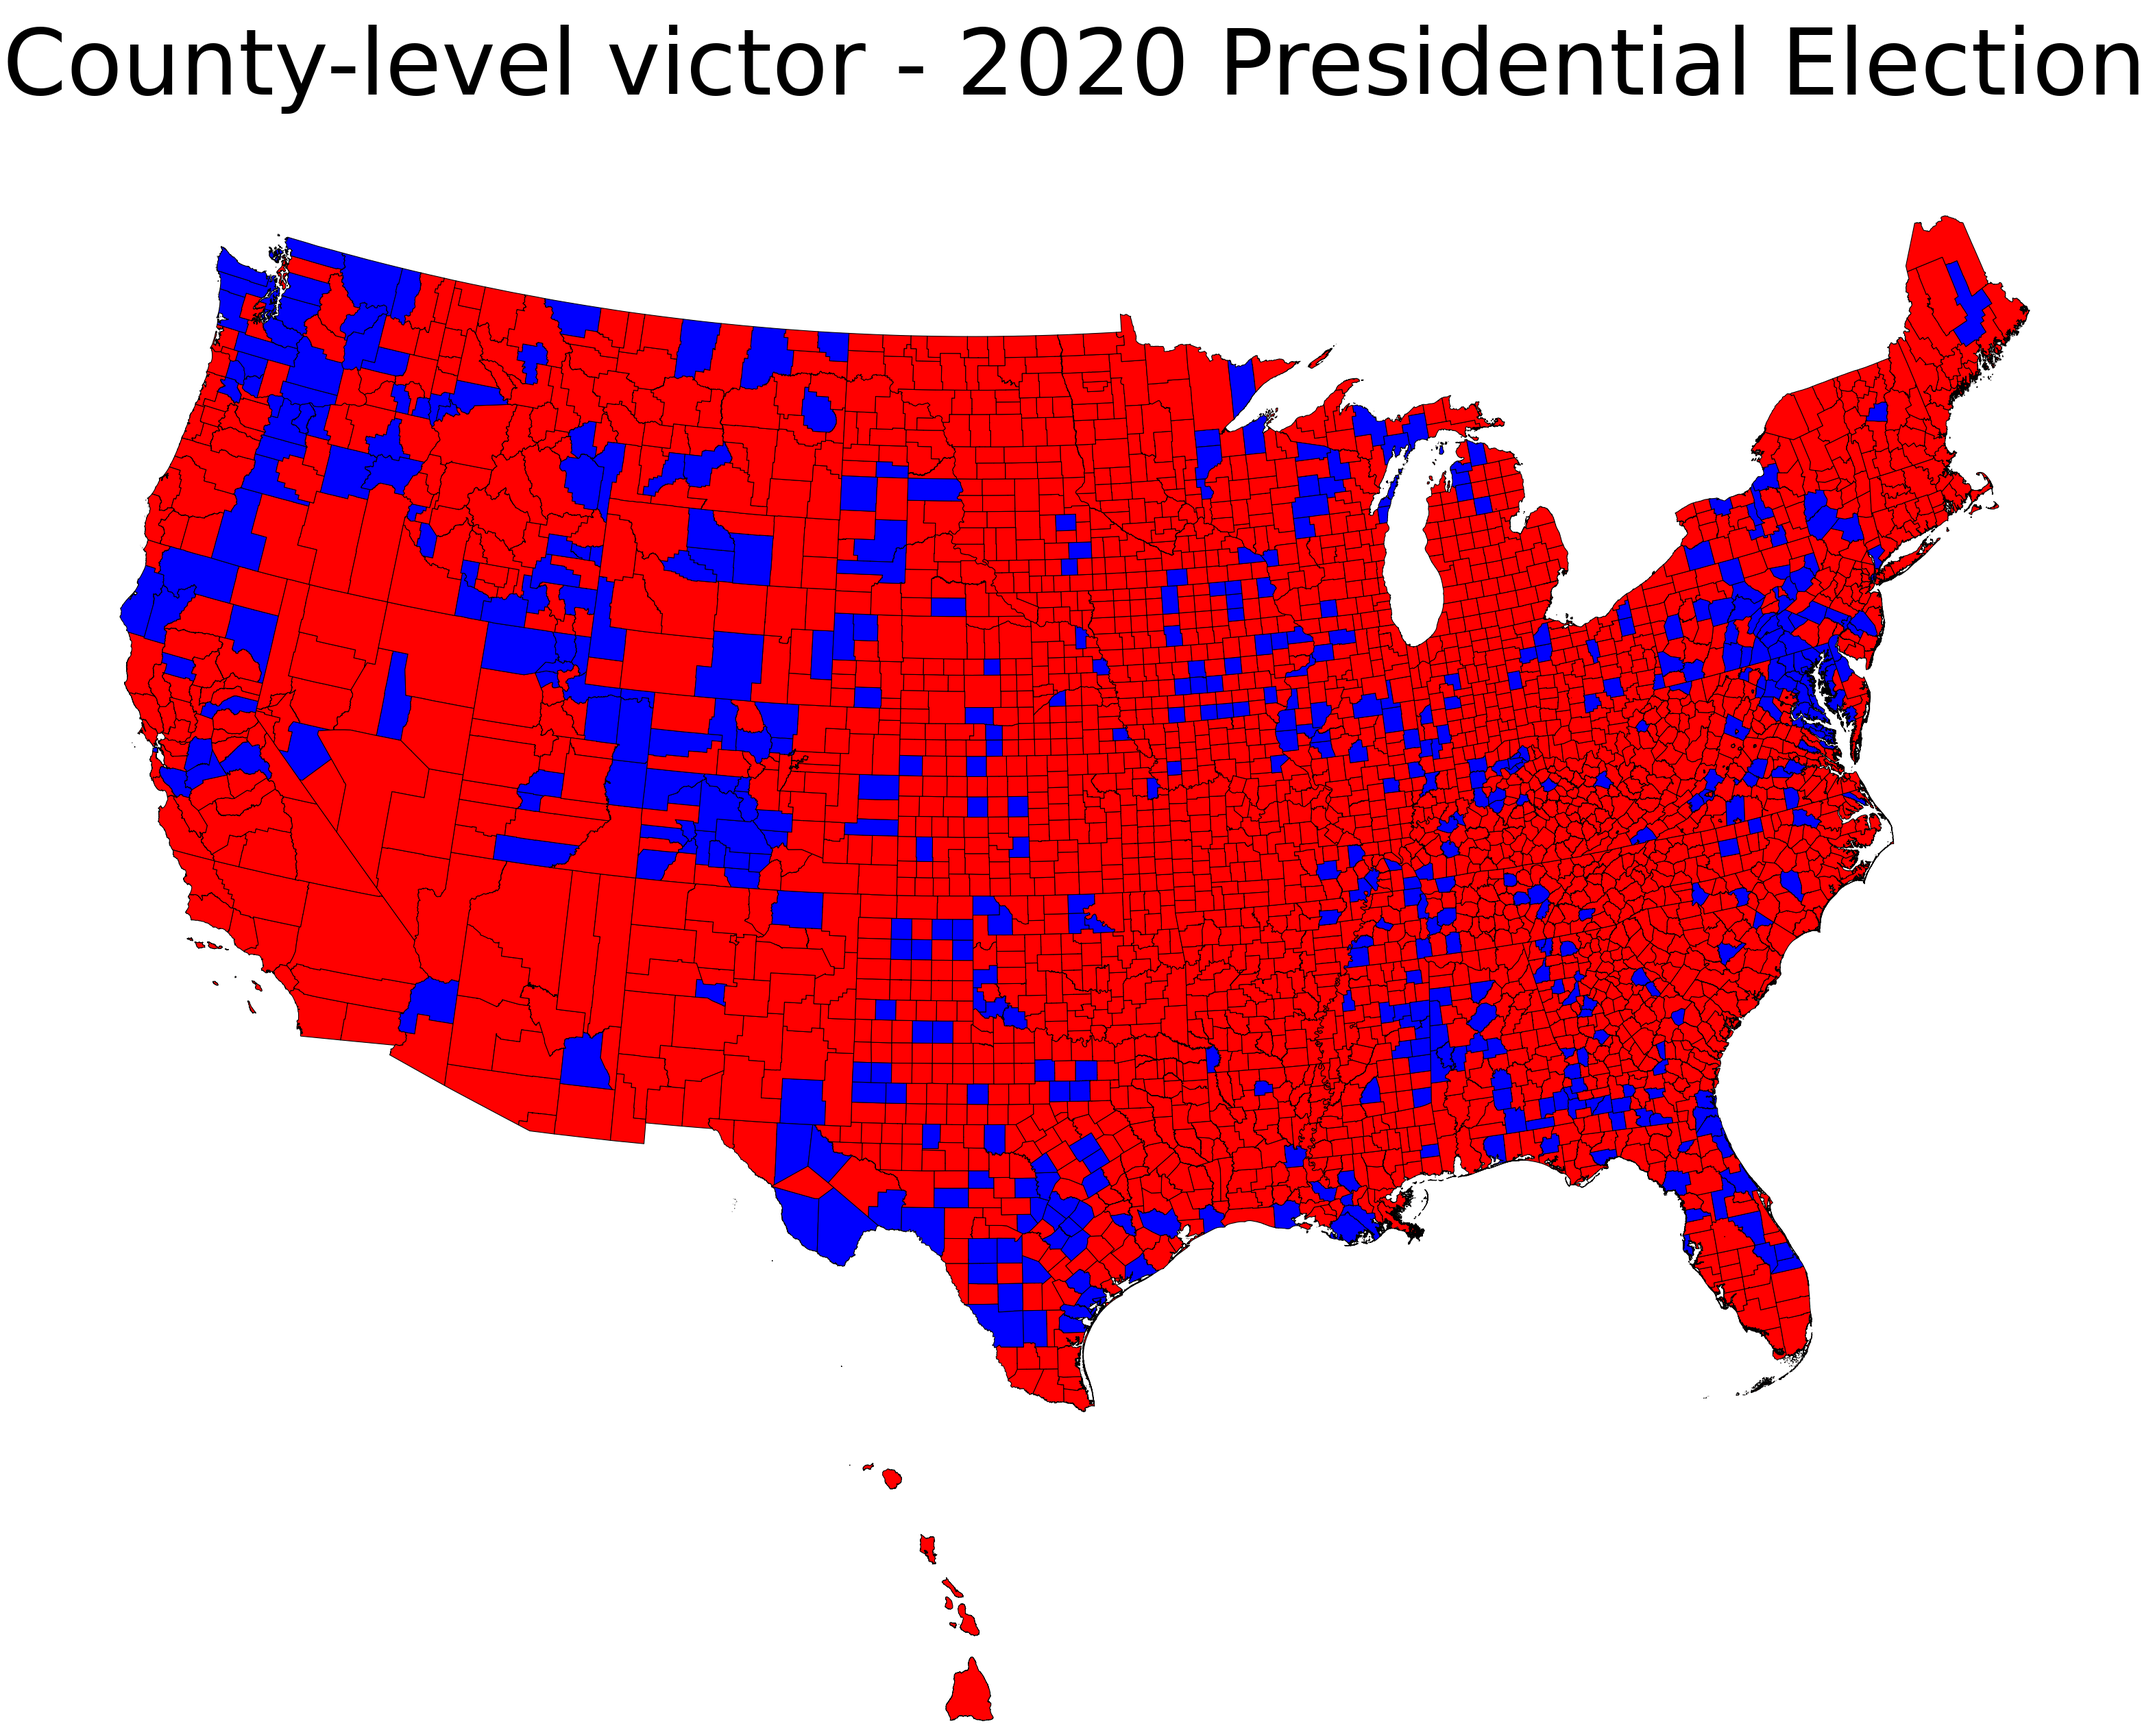
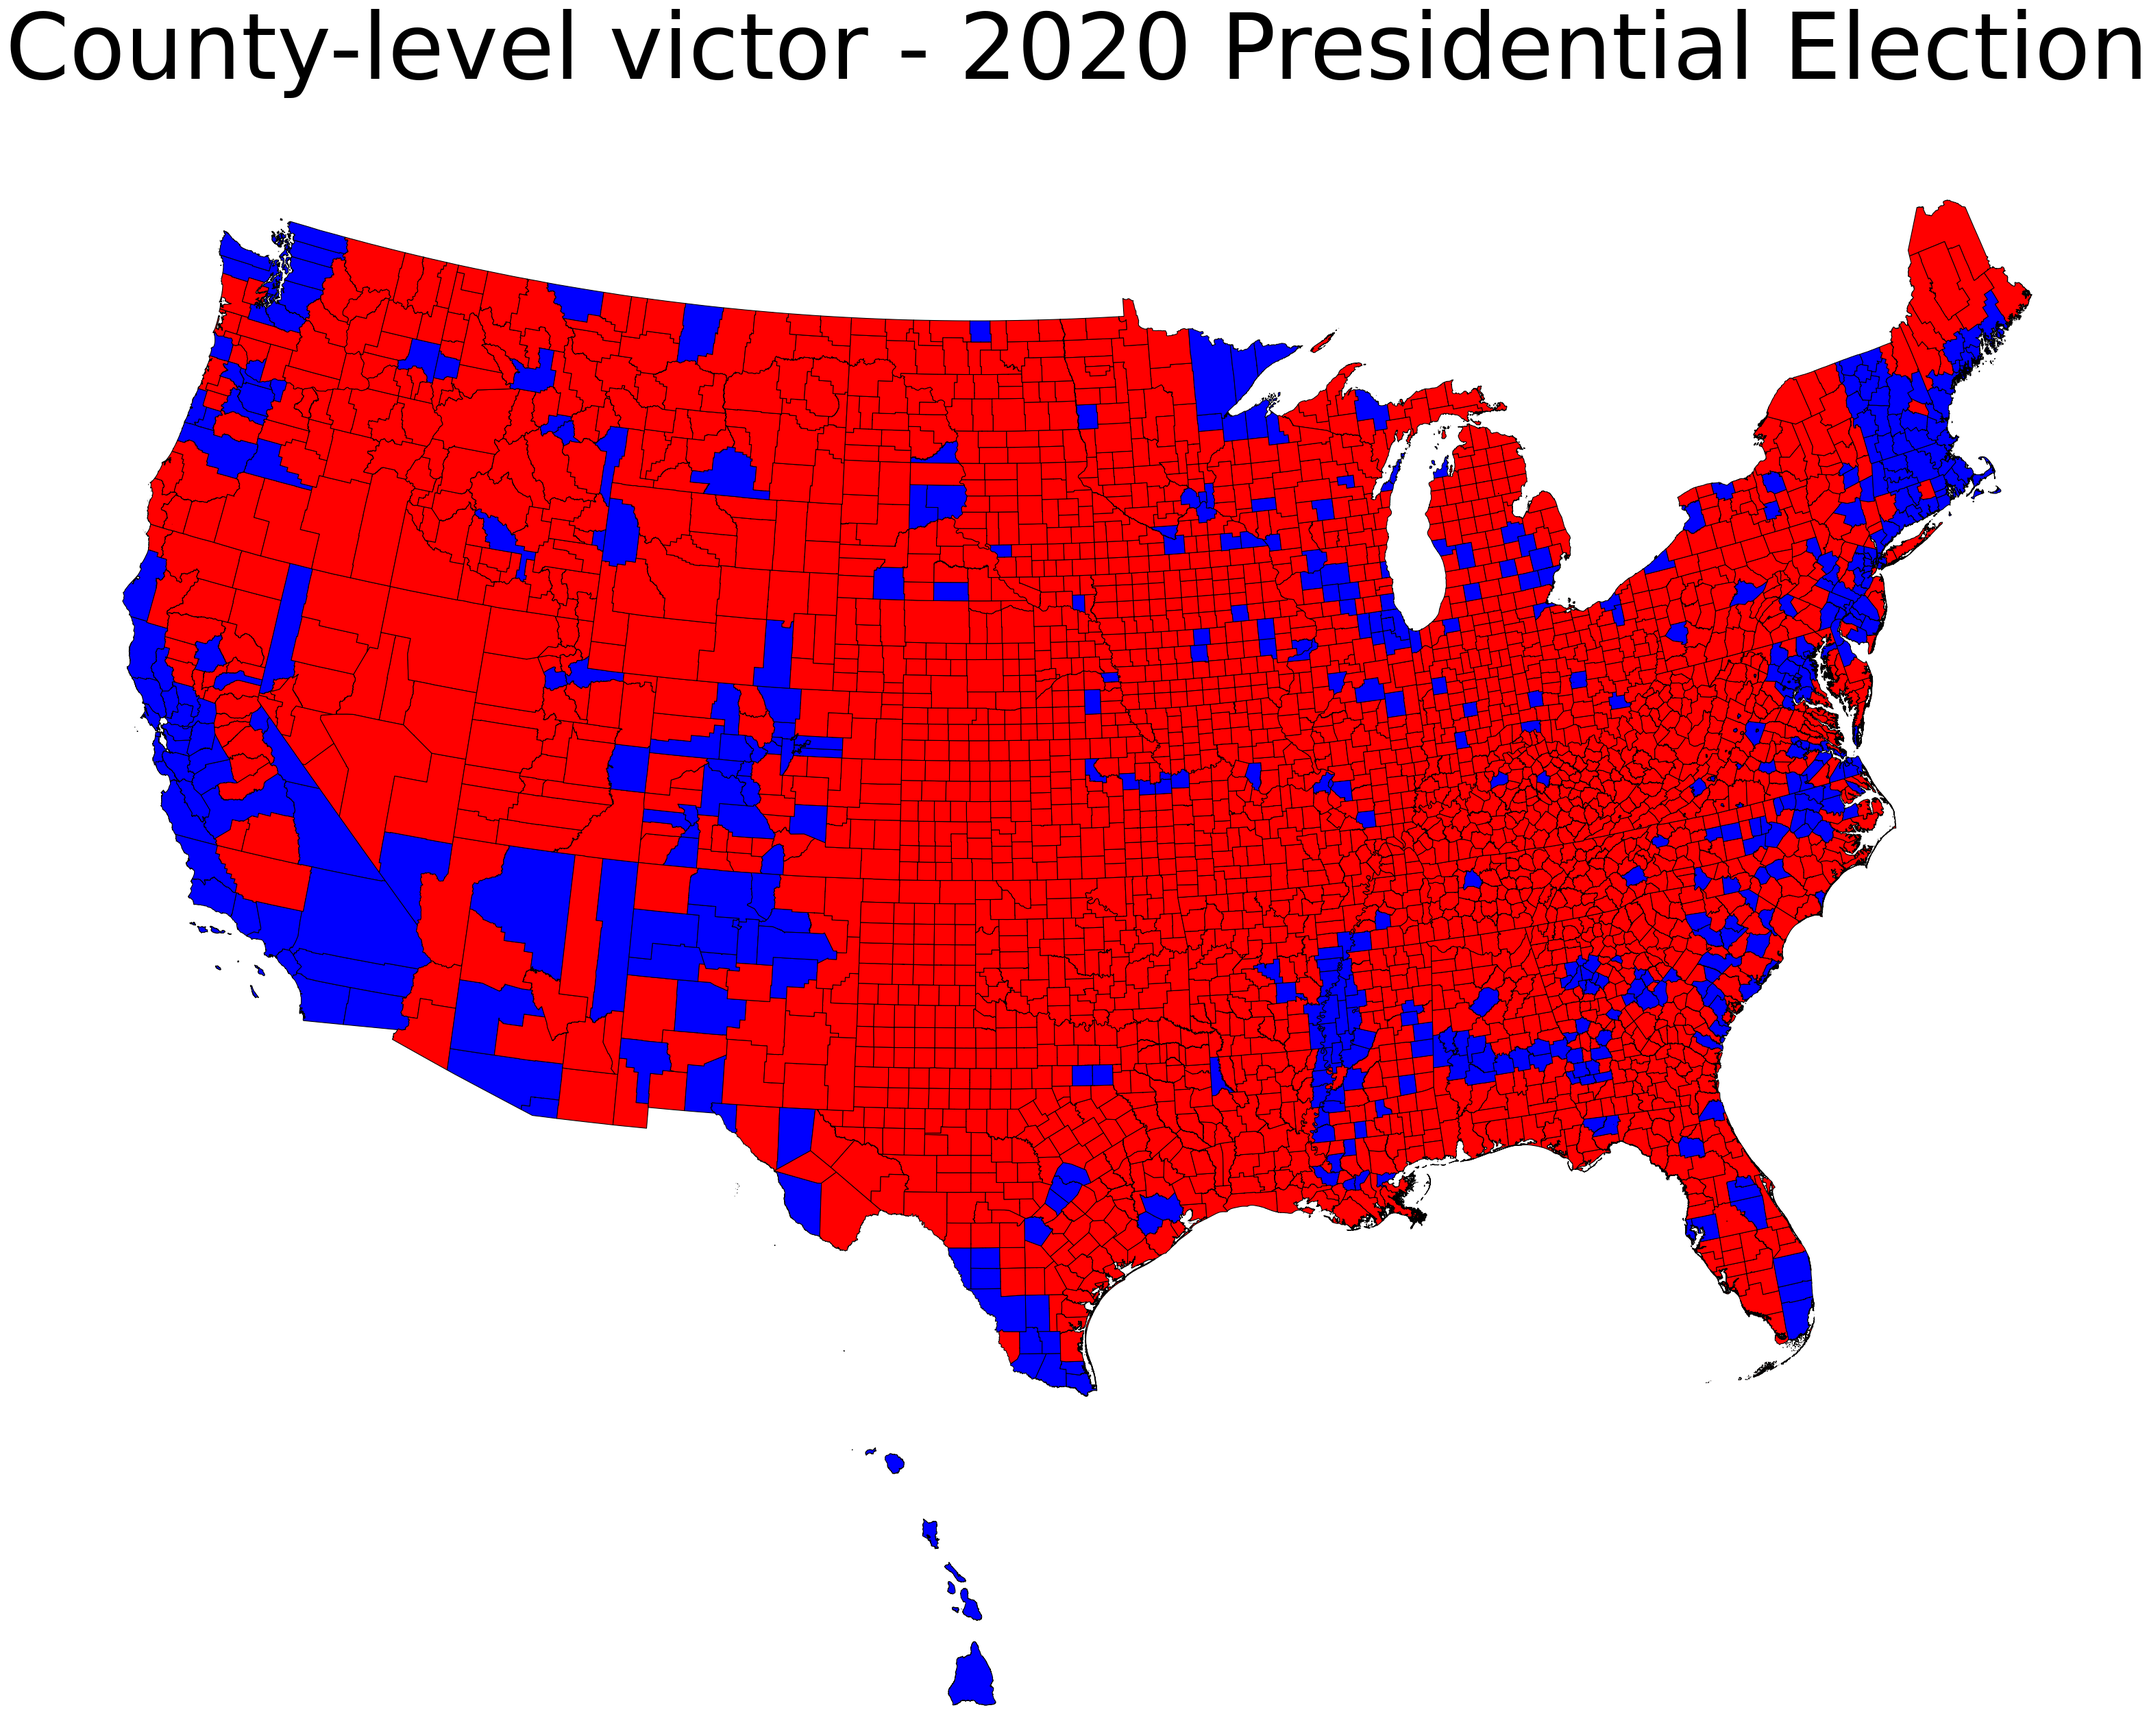
Code fix

diff --git a/questions/59826/main.py b/questions/59826/main.py
@@ -26,7 +26,7 @@ df["FIPS"] = df["FIPS"].apply(lambda x: str(x).zfill(5))
 
 df = df[["FIPS", "Trump", "Biden", "Total Votes"]]
 
-df.to_csv("county_results.csv")
+df.to_csv("county_results.csv", index=False)
 
 print(f"Biden won counties: {len(df[df['Biden']>df['Trump']])} out of {len(df)}")
 print(f"Trump votes: {int(sum(df['Trump']))}")
@@ -44,7 +44,7 @@ map_df[m] = map_df[m].set_geometry(map_df[m].translate(5500000, -1800000))
 merged = map_df.merge(df, on="FIPS", how="inner")
 
 # Set up facecolour column
-merged["colour"] = df.apply(lambda x: "b" if x["Biden"] > x["Trump"] else "r", axis=1)
+merged["colour"] = merged.apply(lambda x: "b" if x["Biden"] > x["Trump"] else "r", axis=1)
 
 # Plot map
 fig, ax = plt.subplots(1, dpi=800)
